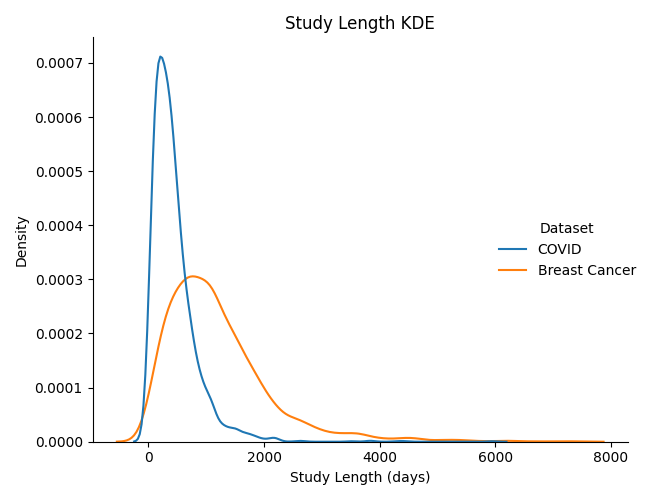
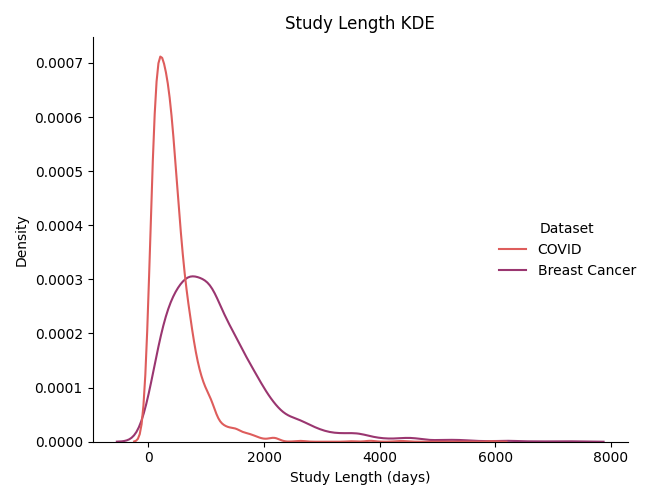
Adding several Graph

diff --git a/studyDuration.py b/studyDuration.py
@@ -31,7 +31,9 @@ breastCancer["Dataset"] = "Breast Cancer"
 
 combined_df = pd.concat([covid, breastCancer])
 
-sb.displot(data=combined_df, x="Study Length", hue="Dataset", kind="kde")
+sb.displot(
+    data=combined_df, x="Study Length", hue="Dataset", kind="kde", palette="flare"
+)
 plt.title("Study Length KDE")
 plt.xlabel("Study Length (days)")
 plt.ylabel("Density")
@@ -39,10 +41,19 @@ plt.tight_layout()
 plt.savefig("GraphImages/bothStudyLengthDensity.png")
 plt.show()
 
-for df in [covid, breastCancer]:
-    for hue in [""]:
-        sb.displot(data=df, x="Study Length", hue="Phases", kind="kde")
-        plt.title("Study Length KDE")
-        plt.xlabel("Study Length (days)")
-        plt.ylabel("Density")
-        plt.show()
+
+sb.displot(data=covid, x="Study Length", hue="Phases", kind="kde", palette="hls")
+plt.title("Study Length Covid")
+plt.xlabel("Study Length (days)")
+plt.ylabel("Density")
+plt.tight_layout()
+plt.savefig("GraphImages/covidDurationByPhases.png")
+plt.show()
+
+sb.displot(data=breastCancer, x="Study Length", hue="Phases", kind="kde", palette="hls")
+plt.title("Study Length Breast Cancer")
+plt.xlabel("Study Length (days)")
+plt.ylabel("Density")
+plt.tight_layout()
+plt.savefig("GraphImages/breastCancerDurationByPhases.png")
+plt.show()

diff --git a/outcomes.py b/outcomes.py
@@ -68,6 +68,7 @@ sns.barplot(
     probs, x="Disease", y="Probability", hue="Has Secondary Outcome", palette="flare"
 )
 plt.title("Probability of Results Being Posted by the Presence of a Secondary Outcome")
+plt.savefig("GraphImages/studyByOutcomes2.png")
 plt.show()
 
 cFiltered = c[["Has More Than 2 Outcomes", "Study Results"]]
@@ -100,4 +101,5 @@ sns.barplot(
     probs, x="Disease", y="Probability", hue="Has More Than 2 Outcomes", palette="flare"
 )
 plt.title("Probability of Results Being Posted by the Presence More than 2 Outcomes")
+plt.savefig("GraphImages/studyByOutcomesMore.png")
 plt.show()

diff --git a/eligibility.py b/eligibility.py
@@ -16,6 +16,7 @@ sex = pd.concat([cSex, bcSex])
 
 sns.barplot(sex, x="Sex", y="count", hue="Disease", palette="flare")
 plt.title("Distribution of Studies by Sex")
+plt.savefig("GraphImages/studyBySex.png")
 plt.show()
 
 # filtered = sex[sex["Sex"] != "ALL"]
@@ -58,4 +59,5 @@ age = pd.concat([cAge, bcAge])
 
 sns.barplot(age, x="Age", y="count", hue="Disease", palette="flare")
 plt.title("Distribution of Studies by Age Grouping")
+plt.savefig("GraphImages/studyByAgeGrouping.png")
 plt.show()
